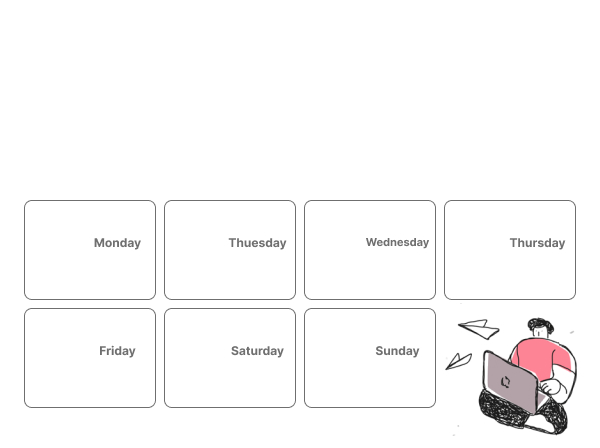
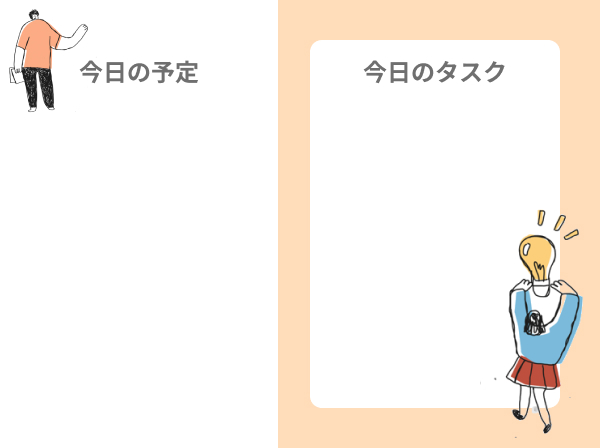
done

diff --git a/src/epaper.py b/src/epaper.py
@@ -6,26 +6,73 @@ from PIL import Image, ImageFont, ImageDraw
 epd = epd5in65f.EPD()
 picdir = '../image'
 
-font = ImageFont.truetype(os.path.join(picdir, 'Font.ttc'), 16)
+font16 = ImageFont.truetype(os.path.join(picdir, 'Font.ttc'), 16)
+font14 = ImageFont.truetype(os.path.join(picdir, 'Font.ttc'), 14)
+font10 = ImageFont.truetype(os.path.join(picdir, 'Font.ttc'), 10)
 
 
-def display_page_1(tasks, items):
+def display_weather_dashboard():
+    image = Image.open(os.path.join(picdir, 'page-0.jpg'))
+    epd.display(epd.getbuffer(image))
+
+
+def display_task_dashboard(tasks, items):
     # 背景画像の描画
-    image = Image.open(os.path.join(picdir, 'page-2.jpg'))
+    image = Image.open(os.path.join(picdir, 'page-1.jpg'))
     draw = ImageDraw.Draw(image)
 
-    # Notionアイテムを描画
-    for index, item in enumerate(tasks):
-        status = item['status']
-        title = item['title']
-        draw.text((325, 100 + index * 24),
-                  f'{status}:{title}', font=font, fill=epd.BLACK)
-
-    for index, item in enumerate(items):
+    # アイテムを分割, 時間でソートされている前提
+    before_now_items_str_list = []
+    now_item_str = ''
+    after_now_items_str_list = []
+    for item in items:
         title = item['title']
         start_at = item['start_at']
         end_at = item['end_at']
-        draw.text((10, 120 + index * 24),
-                  f'{start_at} - {end_at}: {title}', font=font, fill=epd.BLACK)
+        is_now = item['is_now']
+        if is_now:
+            now_item_str = f'{start_at}-{end_at}: {title}'
+        elif now_item_str == '':
+            before_now_items_str_list.append(f'{start_at}-{end_at}: {title}')
+        else:
+            after_now_items_str_list.append(f'{start_at}-{end_at}: {title}')
+    # 文字列にする
+    before_now_items_str = '\n'.join(before_now_items_str_list)
+    after_now_items_str = '\n'.join(after_now_items_str_list)
+    # それぞれの座標を取得
+    before_box = draw.textbbox((10, 120), before_now_items_str,
+                               font=font14, spacing=8)
+    now_box = draw.textbbox((10, before_box[3] + 8), now_item_str,
+                            font=font14, spacing=8)
+    # 描画
+    draw.text((10, 120), before_now_items_str,
+              font=font14, fill=epd.BLACK, spacing=8)
+    draw.text((10, before_box[3] + 8), now_item_str,
+              font=font14, fill=epd.RED, spacing=8)
+    draw.text((10, now_box[3] + 8), after_now_items_str,
+              font=font14, fill=epd.BLACK, spacing=8)
 
+    # 今日のタスク
+    tasks_str_list = []
+    for state in tasks.keys():
+        tasks_str_list.append(f'【{state}】')
+        items = tasks[state]
+        for item in items:
+            title = item['title']
+            status = item['status']
+            tasks_str_list.append(f'{status}:{title}')
+    tasks_str = '\n'.join(tasks_str_list)
+    draw.text((320, 100), tasks_str, font=font14, fill=epd.BLACK, spacing=8)
+
+    epd.display(epd.getbuffer(image))
+
+
+def display_goal_dashboard():
+    # 背景画像の描画
+    image = Image.open(os.path.join(picdir, 'page-2.jpg'))
+    epd.display(epd.getbuffer(image))
+
+
+def display_milestone_dashboard():
+    image = Image.open(os.path.join(picdir, 'page-3.jpg'))
     epd.display(epd.getbuffer(image))

diff --git a/src/main.py b/src/main.py
@@ -1,14 +1,11 @@
-import logging
-import os
-
-from epaper import display_page_1
-from notion import get_daily_task_items, get_calendar_items
-from lib import epd5in65f
-from PIL import Image
-import evdev
-import time
 from concurrent.futures import ThreadPoolExecutor
+import time
+import evdev
+from lib import epd5in65f
+import logging
 
+from epaper import display_task_dashboard, display_weather_dashboard
+from notion import get_daily_task_items, get_calendar_items
 logging.basicConfig(level=logging.DEBUG)
 picdir = '../image'
 
@@ -16,14 +13,13 @@ picdir = '../image'
 def doProcess(currentIndex):
     try:
         if currentIndex == 0:
-            Page_1 = Image.open(os.path.join(picdir, 'page-1.jpg'))
-            epd.display(epd.getbuffer(Page_1))
+            display_weather_dashboard()
         if currentIndex == 1:
             # Notion itemの取得
             tasks = get_daily_task_items()
             items = get_calendar_items()
             # 初回実行
-            display_page_1(tasks, items)
+            display_task_dashboard(tasks, items)
 
             # 5分ごとにアイテムを取得
             while True:
@@ -33,16 +29,9 @@ def doProcess(currentIndex):
 
                 if set(new_tasks) != set(tasks) or set(new_items) != set(items):
                     # 差分があった場合は再描画
-                    display_page_1(new_tasks, new_items)
+                    display_task_dashboard(new_tasks, new_items)
                     tasks = new_tasks
                     items = new_items
-
-        if currentIndex == 2:
-            page_3 = Image.open(os.path.join(picdir, 'page-3.jpg'))
-            epd.display(epd.getbuffer(page_3))
-        if currentIndex == 3:
-            page_3 = Image.open(os.path.join(picdir, 'page-4.jpg'))
-            epd.display(epd.getbuffer(page_3))
     except IOError as e:
         logging.info(e)
     except KeyboardInterrupt:
@@ -63,18 +52,13 @@ def getKeyEvent(currentIndex):
                 if event.type == evdev.ecodes.EV_KEY:
                     if event.value == 1:  # 0:KEYUP, 1:KEYDOWN, 2: LONGDOWN
                         if event.code == evdev.ecodes.KEY_A:
-                            # トップページを表示
-                            doProcess(0)
-                        if event.code == evdev.ecodes.KEY_B:
-                            # 次のページに移動
-                            if currentIndex < 3:
-                                currentIndex = currentIndex + 1
-                            else:
-                                currentIndex = 0
-
-                            # 新しいプロセスの取得
+                            # 天気ダッシュボードの表示
+                            currentIndex = 0
                             doProcess(currentIndex)
-
+                        if event.code == evdev.ecodes.KEY_B:
+                            # タスクダッシュボードの表示
+                            currentIndex = 1
+                            doProcess(currentIndex)
                         if event.code == evdev.ecodes.KEY_C:
                             # TODO: リロード
                             # もし差分があれば実行

diff --git a/src/notion.py b/src/notion.py
@@ -2,6 +2,8 @@ import os
 from notion_client import Client
 from dotenv import load_dotenv
 import datetime
+import json
+from util import is_time_in_range
 
 # .envファイルの読み込み
 load_dotenv()
@@ -31,7 +33,7 @@ def get_daily_task_items():
                         "property": "タスクの状態",
                         "formula": {
                             "string": {
-                                "equals": "過去の未完了タスク"
+                                "equals": "過去の未確認タスク"
                             }
                         }
                     }
@@ -39,16 +41,26 @@ def get_daily_task_items():
             }
         }
     )
-
-    result = []
+    result = {}
     # 結果を表示
     for item in results['results']:
-        # json_str = json.dumps(item, indent=4)
-        # print(json_str, ensure_ascii=False)
-        result.append({
-            'title': item['properties']['name']['title'][0]['plain_text'],
-            'status': item['properties']['ステータス']['select']['name'],
-        })
+        json_str = json.dumps(item, indent=4, ensure_ascii=False)
+        print(json_str)
+        key = item['properties']['タスクの状態']['formula']['string']
+        title = item['properties']['name']['title'][0]['plain_text']
+        status = item['properties']['ステータス']['select']['name']
+        if key in result:
+            result[key].append({
+                'title': title,
+                'status': status,
+            })
+        else:
+            result[key] = [
+                {
+                    'title': title,
+                    'status': status,
+                }
+            ]
     return result
 
 
@@ -105,9 +117,11 @@ def get_calendar_items():
         start_at = datetime.datetime.fromisoformat(
             start_at_str).strftime("%#H:%M")
         end_at = datetime.datetime.fromisoformat(end_at_str).strftime("%#H:%M")
+        is_now = is_time_in_range(start_at, end_at)
         result.append({
             'title': item['properties']['Name']['title'][0]['plain_text'],
             'start_at': start_at,
             'end_at': end_at,
+            'is_now': is_now
         })
     return result

diff --git a/src/util.py b/src/util.py
@@ -1,0 +1,12 @@
+import datetime
+
+
+def is_time_in_range(start: str, end: str) -> bool:
+    current_time = datetime.datetime.now().time()
+    start_time = datetime.datetime.strptime(start, '%H:%M').time()
+    end_time = datetime.datetime.strptime(end, '%H:%M').time()
+
+    if start_time < end_time:
+        return start_time <= current_time <= end_time
+    else:  # 時間範囲が翌日にまたがる場合
+        return start_time <= current_time or current_time <= end_time
